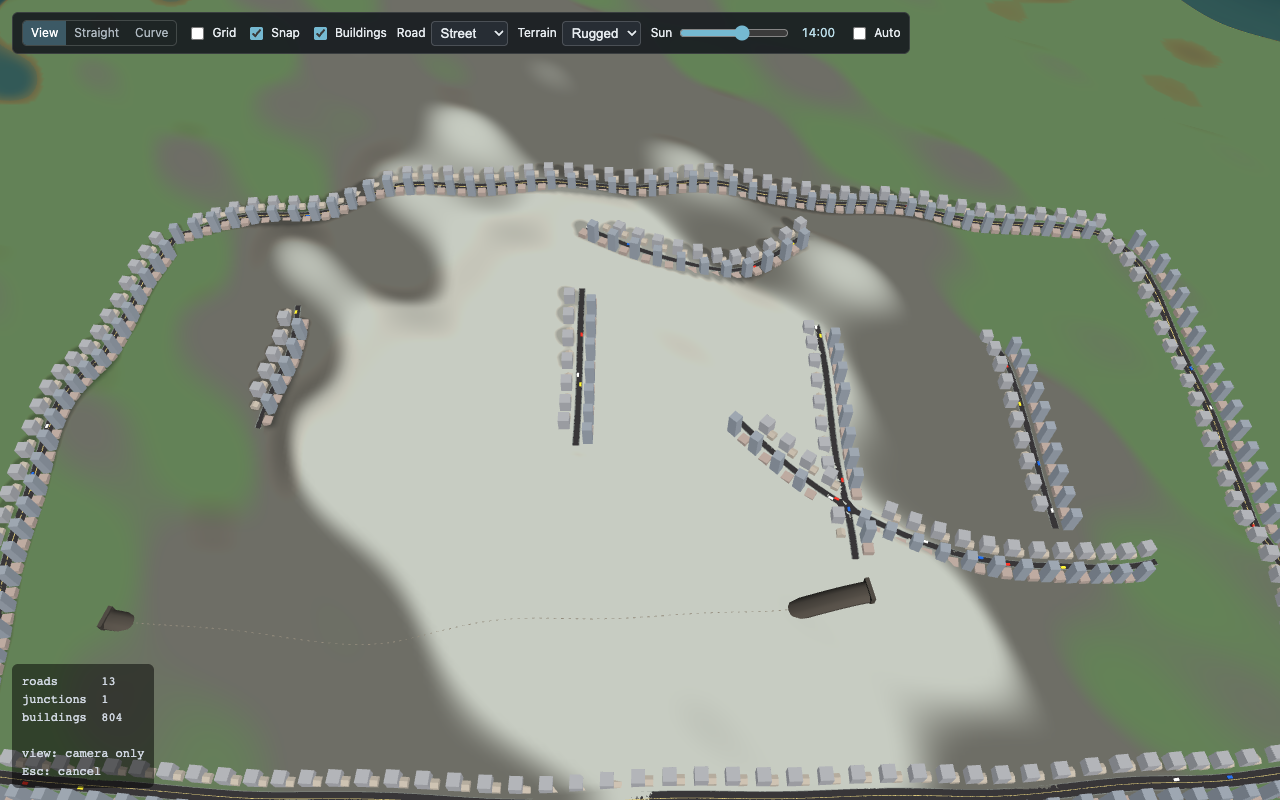
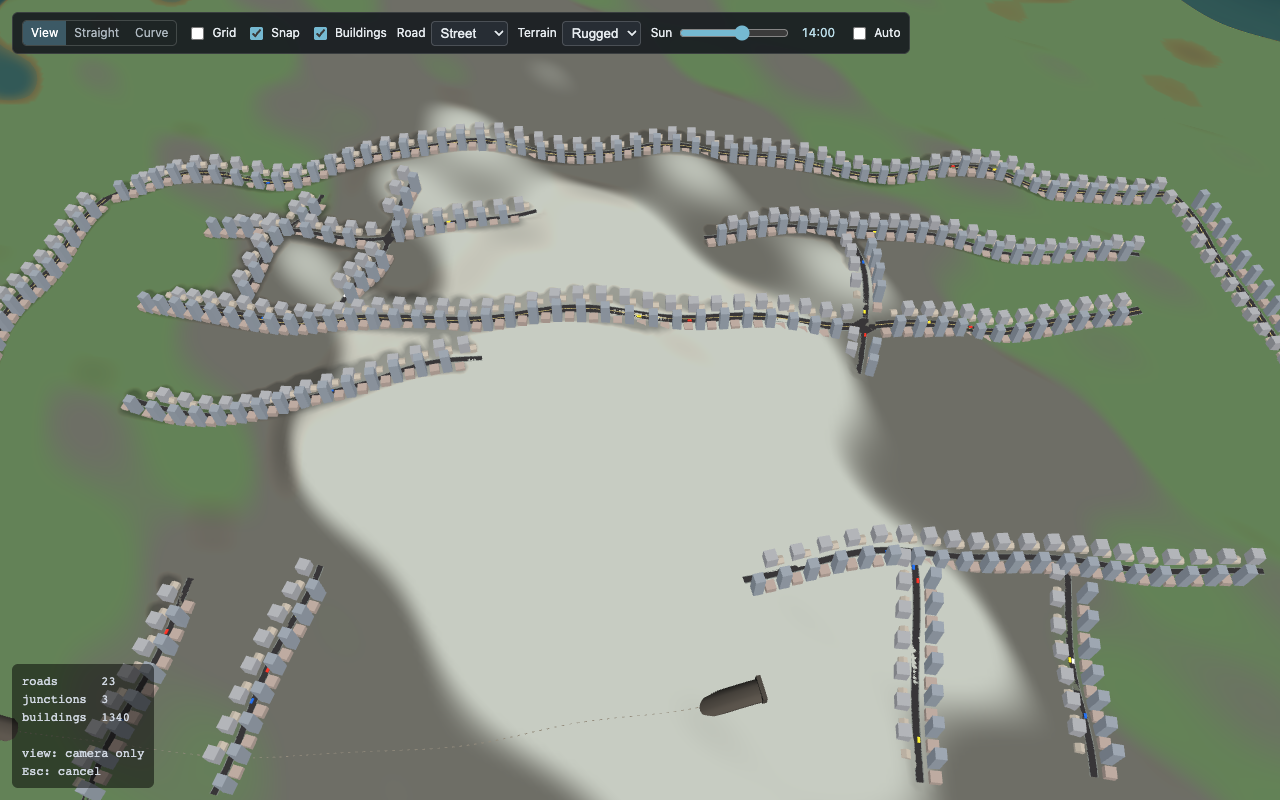
Show district road hierarchy in captures

Changed region(s): [[0.0, 0.1562, 1.0, 1.0], [0.0, 0.6875, 0.4375, 1.0], [0.5312, 0.8438, 0.625, 0.9062]]

diff --git a/src/render/debugApi.ts b/src/render/debugApi.ts
@@ -39,24 +39,31 @@ export function installDebugApi(
       return result.ok;
     },
     demoNetwork() {
-      // Schematic arterial/local layout, close to the planning sketch used for docs.
-      api.road(-760, -420, 0, -520, 760, -420, "avenue");
-      api.road(-760, 420, 0, 520, 760, 420, "avenue");
-      api.road(-760, -420, -860, 0, -760, 420, "avenue");
-      api.road(760, -420, 860, 0, 760, 420, "avenue");
-      api.road(-650, 240, -220, -120, 230, 160, "avenue");
-      api.road(230, 160, 410, 330, 620, 300, "avenue");
-      api.road(-720, -80, -450, -260, -180, -60);
-      api.road(-620, 220, -420, 40, -160, 150);
-      api.road(-220, -300, 20, -160, 220, -260);
-      api.road(120, -40, 330, -250, 650, -170);
-      api.road(330, 120, 480, 20, 650, 120);
-      api.road(-80, 330, 90, 210, 260, 360);
-      api.road(-520, 20, -500, 110, -500, 220);
-      api.road(-80, -60, -80, 60, -80, 190);
-      api.road(250, -210, 250, -20, 250, 170);
-      api.road(520, -140, 520, 20, 520, 180);
-      api.road(-640, -250, -230, -330, 260, -250, "tunnel");
+      // Neighborhood capture: big avenues define districts, collectors feed local streets.
+      api.road(-900, -520, 0, -620, 900, -520, "avenue");
+      api.road(-900, 520, 0, 620, 900, 520, "avenue");
+      api.road(-900, -520, -1040, 0, -900, 520, "avenue");
+      api.road(900, -520, 1040, 0, 900, 520, "avenue");
+      api.road(-180, -660, -60, -60, -70, 660, "avenue");
+      api.road(-850, -120, -330, -170, 230, -80, "avenue");
+      api.road(-760, 280, -260, 40, 760, 250, "avenue");
+      api.road(-780, -360, -430, -420, -110, -300);
+      api.road(-760, -230, -430, -260, -120, -190);
+      api.road(-720, 80, -470, 10, -210, 80);
+      api.road(-690, 420, -430, 330, -160, 390);
+      api.road(80, -410, 310, -300, 720, -340);
+      api.road(120, -230, 380, -160, 770, -190);
+      api.road(90, 70, 340, 110, 770, 60);
+      api.road(100, 360, 360, 420, 790, 360);
+      api.road(-610, -470, -570, -350, -540, -210);
+      api.road(-460, -450, -430, -330, -390, -190);
+      api.road(-600, 250, -560, 360, -530, 500);
+      api.road(-430, 210, -400, 330, -360, 480);
+      api.road(290, -450, 300, -330, 320, -210);
+      api.road(480, -440, 500, -320, 520, -200);
+      api.road(300, 90, 340, 210, 330, 350);
+      api.road(520, 90, 570, 210, 560, 350);
+      api.road(-780, -360, -340, -470, 130, -360, "tunnel");
       rebuild();
     },
     demoCity() {
